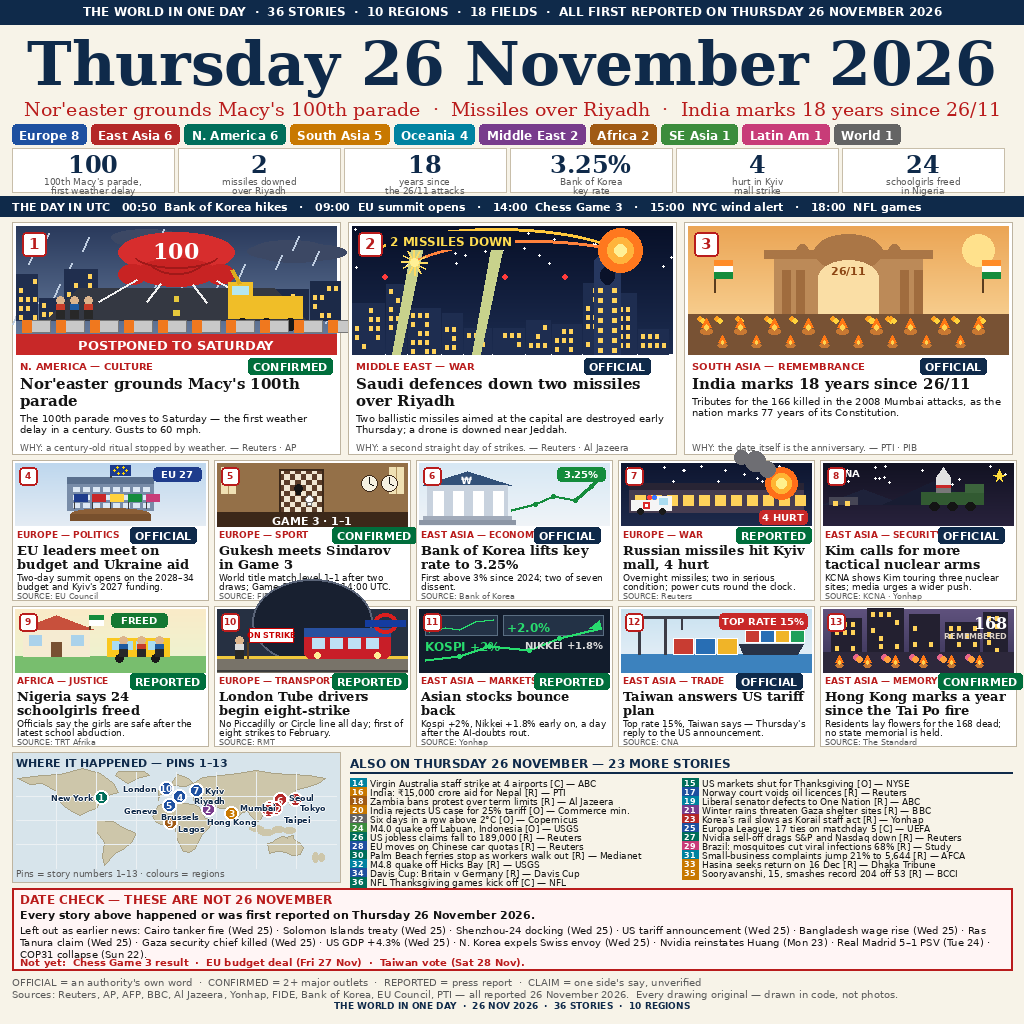
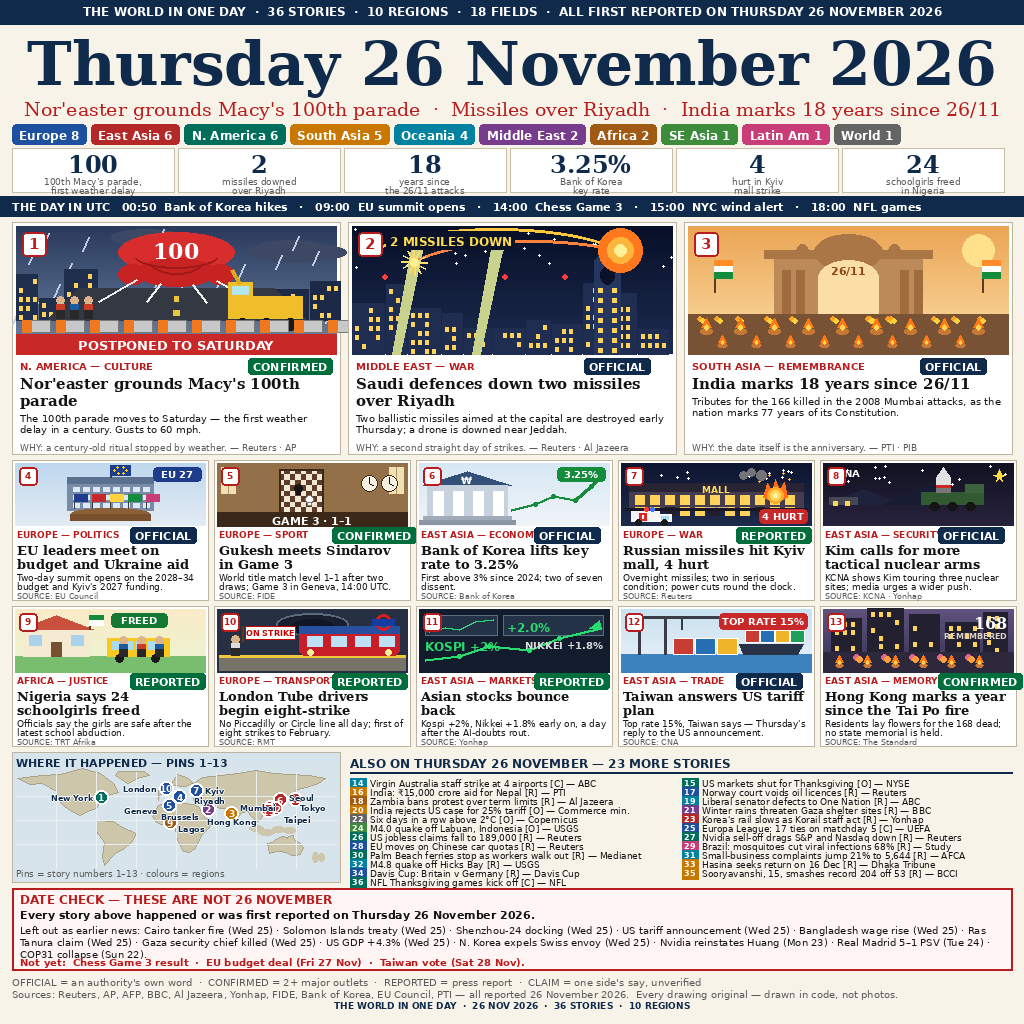
news26 v4 fix: cards 7+10 art fully inside frame (no bleed); real mall facade + fireball, smaller tunnel arch, big train, full roundel

Changed region(s): [[0.2188, 0.5625, 0.4062, 0.6562], [0.5938, 0.4375, 0.7812, 0.5312]]

diff --git a/render.py b/render.py
@@ -293,34 +293,53 @@ def scene(dr, kind, x0, y0, x1, y1):
             dr.ellipse([px - 2, py - 2, px + 2, py + 2], fill=(20, 140, 60))
         pill(dr, x1 - 52, y0 + 4, x1 - 4, y0 + 18, (20, 140, 60), "3.25%", 10)
     elif kind == "kyiv":
+        # ALL elements stay inside the card box with a margin — nothing may
+        # touch or cross the frame (Sidik: "keluar kotak").
         vgrad(dr, x0, y0, x1, y1, (14, 22, 48), (30, 42, 75))
         rnd = random.Random(3)
-        for _ in range(14):
-            sx = rnd.randint(x0 + 2, x1 - 2); sy = rnd.randint(y0 + 2, y0 + 18)
+        for _ in range(12):
+            sx = rnd.randint(x0 + 6, x1 - 6); sy = rnd.randint(y0 + 6, y0 + 14)
             dr.ellipse([sx, sy, sx + 2, sy + 2], fill=(255, 255, 255))
-        # mall building with lit shop windows
-        dr.rectangle([x0 + 8, y0 + 20, x1 - 8, y1 - 14], fill=(70, 60, 80))
-        dr.rectangle([x0 + 8, y0 + 20, x1 - 8, y0 + 26], fill=(40, 36, 52))
-        for wx in range(x0 + 14, x1 - 14, 16):
-            dr.rectangle([wx, y0 + 32, wx + 10, y0 + 42], fill=(255, 210, 90))
-        # fire glow + smoke at roof corner
-        fx, fy = x1 - 30, y0 + 20
-        for r, col in [(16, (255, 110, 25)), (10, (255, 180, 50)), (5, (255, 240, 140))]:
-            dr.ellipse([fx - r, fy - r, fx + r, fy + r], fill=col)
-        for i, (sx, sy, sr) in enumerate([(x1 - 44, y0 + 6, 8), (x1 - 56, y0 - 2, 10), (x1 - 70, y0 - 6, 7)]):
-            dr.ellipse([sx - sr, sy - sr, sx + sr, sy + sr], fill=(110, 110, 115))
-        # ambulance, foreground left
-        ax, ay = x0 + 10, y1 - 16
-        dr.rectangle([ax, ay - 10, ax + 34, ay], fill=(245, 245, 245))
-        dr.rectangle([ax + 26, ay - 14, ax + 40, ay], fill=(245, 245, 245))
-        dr.rectangle([ax + 28, ay - 12, ax + 36, ay - 6], fill=(170, 220, 240))
-        dr.rectangle([ax + 12, ay - 8, ax + 18, ay - 2], fill=(220, 40, 40))
-        dr.rectangle([ax + 14, ay - 6, ax + 16, ay - 4], fill=(255, 255, 255))
-        dr.ellipse([ax + 6, ay - 2, ax + 12, ay + 4], fill=(25, 25, 25))
-        dr.ellipse([ax + 28, ay - 2, ax + 34, ay + 4], fill=(25, 25, 25))
-        dr.ellipse([ax + 16, ay - 15, ax + 20, ay - 11], fill=(255, 60, 60))
-        dr.ellipse([ax + 21, ay - 15, ax + 25, ay - 11], fill=(60, 120, 255))
-        pill(dr, x1 - 52, y1 - 16, x1 - 4, y1 - 2, (200, 40, 40), "4 HURT", 10)
+        # mall facade: sign band + glass front + entrance, all inside the box
+        dr.rectangle([x0 + 8, y0 + 20, x1 - 8, y1 - 18], fill=(70, 60, 80))
+        dr.rectangle([x0 + 8, y0 + 20, x1 - 8, y0 + 28], fill=(40, 36, 52))
+        txt(cx, y0 + 21, "MALL", SANS_B(9), (255, 220, 90), "ma")
+        for wx in range(x0 + 14, x1 - 14, 15):
+            dr.rectangle([wx, y0 + 32, wx + 9, y0 + 41], fill=(255, 210, 90))
+        for wx in range(x0 + 14, x1 - 14, 15):
+            if (wx // 15) % 3 != 2:
+                dr.rectangle([wx, y0 + 44, wx + 9, y0 + 52], fill=(255, 210, 90))
+            else:
+                dr.rectangle([wx, y0 + 44, wx + 9, y0 + 52], fill=(35, 30, 45))
+        # entrance, centre
+        dr.rectangle([cx - 11, y0 + 44, cx + 11, y1 - 18], fill=(200, 180, 140))
+        dr.line([cx, y0 + 44, cx, y1 - 18], fill=(120, 100, 70), width=1)
+        # fireball on the roof, right side — jagged flames, not a disc
+        fx, fy = x1 - 36, y0 + 30
+        dr.polygon([(fx - 12, fy + 4), (fx - 8, fy - 10), (fx - 3, fy - 2), (fx, fy - 14),
+                    (fx + 4, fy - 3), (fx + 9, fy - 11), (fx + 12, fy + 4), (fx, fy + 10)],
+                   fill=(255, 110, 25))
+        for r, col in [(8, (255, 170, 40)), (5, (255, 215, 90)), (2, (255, 245, 170))]:
+            dr.ellipse([fx - r, fy - r + 2, fx + r, fy + r + 2], fill=col)
+        # embers + smoke plume, capped below the top edge
+        for ex, ey in [(fx - 16, fy - 12), (fx + 14, fy - 14), (fx - 6, fy - 18), (fx + 8, fy - 20)]:
+            dr.ellipse([ex - 1, ey - 1, ex + 1, ey + 1], fill=(255, 180, 60))
+        for sx, sy, sr in [(x1 - 50, y0 + 12, 5), (x1 - 60, y0 + 9, 4), (x1 - 68, y0 + 12, 4)]:
+            dr.ellipse([sx - sr, sy - sr, sx + sr, sy + sr], fill=(115, 115, 120))
+        # ground line
+        dr.rectangle([x0 + 4, y1 - 18, x1 - 4, y1 - 16], fill=(25, 22, 38))
+        # ambulance, foreground left — FULL body inside the frame
+        ax = x0 + 10
+        dr.rectangle([ax, y1 - 15, ax + 28, y1 - 5], fill=(245, 245, 245))
+        dr.rectangle([ax + 28, y1 - 12, ax + 40, y1 - 5], fill=(245, 245, 245))
+        dr.rectangle([ax + 30, y1 - 10, ax + 37, y1 - 7], fill=(170, 220, 240))
+        dr.rectangle([ax + 8, y1 - 13, ax + 15, y1 - 6], fill=(220, 40, 40))
+        dr.rectangle([ax + 11, y1 - 11, ax + 12, y1 - 8], fill=(255, 255, 255))
+        dr.ellipse([ax + 4, y1 - 7, ax + 10, y1 - 1], fill=(25, 25, 25))
+        dr.ellipse([ax + 30, y1 - 7, ax + 36, y1 - 1], fill=(25, 25, 25))
+        dr.ellipse([ax + 13, y1 - 19, ax + 17, y1 - 15], fill=(255, 60, 60))
+        dr.ellipse([ax + 19, y1 - 19, ax + 23, y1 - 15], fill=(60, 120, 255))
+        pill(dr, x1 - 52, y1 - 17, x1 - 4, y1 - 3, (200, 40, 40), "4 HURT", 10)
     elif kind == "kim":
         vgrad(dr, x0, y0, x1, y1, (18, 18, 34), (40, 34, 60))
         rnd = random.Random(8)
@@ -378,30 +397,34 @@ def scene(dr, kind, x0, y0, x1, y1):
         for i, px in enumerate((x0 + 108, x0 + 126, x0 + 144)):
             person(dr, px, y1 - 16, 14, (200, 60, 40) if i % 2 else (30, 90, 160), (40, 40, 40))
     elif kind == "tube":
+        # ALL elements stay inside the card box with a margin — nothing may
+        # touch or cross the frame (Sidik: "keluar kotak").
         dr.rectangle([x0, y0, x1, y1], fill=(38, 48, 66))
-        dr.ellipse([cx - 60, y0 - 30, cx + 60, y1 - 8], fill=(24, 32, 48))
-        dr.ellipse([cx - 60, y0 - 30, cx + 60, y1 - 8], outline=(90, 100, 120), width=2)
+        # tunnel mouth, TOP THIRD only, fully inside the frame
+        dr.ellipse([cx - 36, y0 + 4, cx + 36, y0 + 26], fill=(24, 32, 48))
+        dr.ellipse([cx - 36, y0 + 4, cx + 36, y0 + 26], outline=(95, 105, 125), width=2)
+        dr.ellipse([cx - 22, y0 + 10, cx + 22, y0 + 26], fill=(16, 22, 36))
         # platform
-        dr.rectangle([x0, y1 - 14, x1, y1], fill=(120, 115, 105))
-        dr.rectangle([x0, y1 - 16, x1, y1 - 14], fill=(240, 200, 60))
-        # train
-        tx0, ty = cx - 8, y1 - 14
-        dr.rounded_rectangle([tx0, ty - 30, tx0 + 86, ty], 6, fill=(200, 30, 40))
-        dr.rectangle([tx0, ty - 30, tx0 + 86, ty - 22], fill=(40, 80, 160))
-        for wx in range(tx0 + 8, tx0 + 80, 18):
-            dr.rectangle([wx, ty - 20, wx + 12, ty - 10], fill=(190, 225, 245))
-        dr.ellipse([tx0 + 10, ty - 6, tx0 + 16, ty], fill=(255, 240, 150))
-        dr.ellipse([tx0 + 70, ty - 6, tx0 + 76, ty], fill=(255, 240, 150))
-        # tracks
-        dr.line([x0, y1 - 2, x1, y1 - 2], fill=(60, 60, 60), width=2)
-        # strike placard + figure, left
-        person(dr, x0 + 22, y1 - 14, 16, (220, 220, 220), (40, 40, 40))
-        dr.line([x0 + 30, y1 - 30, x0 + 30, y1 - 14], fill=(90, 60, 30), width=2)
-        dr.rectangle([x0 + 32, y1 - 44, x0 + 76, y1 - 30], fill=(255, 255, 255), outline=(200, 0, 0))
-        txt(x0 + 54, y1 - 42, "ON STRIKE", SANS_B(8), (200, 0, 0), "ma")
-        # roundel top-right
-        dr.ellipse([x1 - 34, y0 + 4, x1 - 10, y0 + 24], outline=(220, 30, 30), width=4)
-        dr.rectangle([x1 - 42, y0 + 11, x1 - 2, y0 + 17], fill=(20, 60, 160))
+        dr.rectangle([x0 + 2, y1 - 15, x1 - 2, y1 - 2], fill=(120, 115, 105))
+        dr.rectangle([x0 + 2, y1 - 17, x1 - 2, y1 - 15], fill=(240, 200, 60))
+        # red Tube train, BIG and fully in frame
+        tx0, tx1, ty = x0 + 82, x1 - 8, y1 - 17
+        dr.rounded_rectangle([tx0, ty - 29, tx1, ty], 6, fill=(200, 30, 40))
+        dr.rectangle([tx0, ty - 29, tx1, ty - 22], fill=(40, 80, 160))
+        for i in range(4):
+            wx = tx0 + 8 + i * 24
+            dr.rectangle([wx, ty - 19, wx + 15, ty - 9], fill=(190, 225, 245))
+        dr.ellipse([tx0 + 8, ty - 6, tx0 + 14, ty], fill=(255, 240, 150))
+        dr.ellipse([tx1 - 14, ty - 6, tx1 - 8, ty], fill=(255, 240, 150))
+        # roundel, top-right, fully inside the frame
+        rx, ry = x1 - 24, y0 + 13
+        dr.ellipse([rx - 8, ry - 8, rx + 8, ry + 8], outline=(220, 30, 30), width=3)
+        dr.rectangle([rx - 11, ry - 3, rx + 11, ry + 3], fill=(20, 60, 160))
+        # protester + placard, left, fully inside the frame
+        person(dr, x0 + 18, y1 - 17, 14, (220, 220, 220), (40, 40, 40))
+        dr.line([x0 + 26, y1 - 31, x0 + 26, y1 - 46], fill=(90, 60, 30), width=2)
+        dr.rectangle([x0 + 28, y1 - 46, x0 + 78, y1 - 33], fill=(255, 255, 255), outline=(200, 0, 0))
+        txt(x0 + 53, y1 - 44, "ON STRIKE", SANS_B(8), (200, 0, 0), "ma")
     elif kind == "stocks":
         dr.rectangle([x0, y0, x1, y1], fill=(18, 28, 44))
         # trading screens
